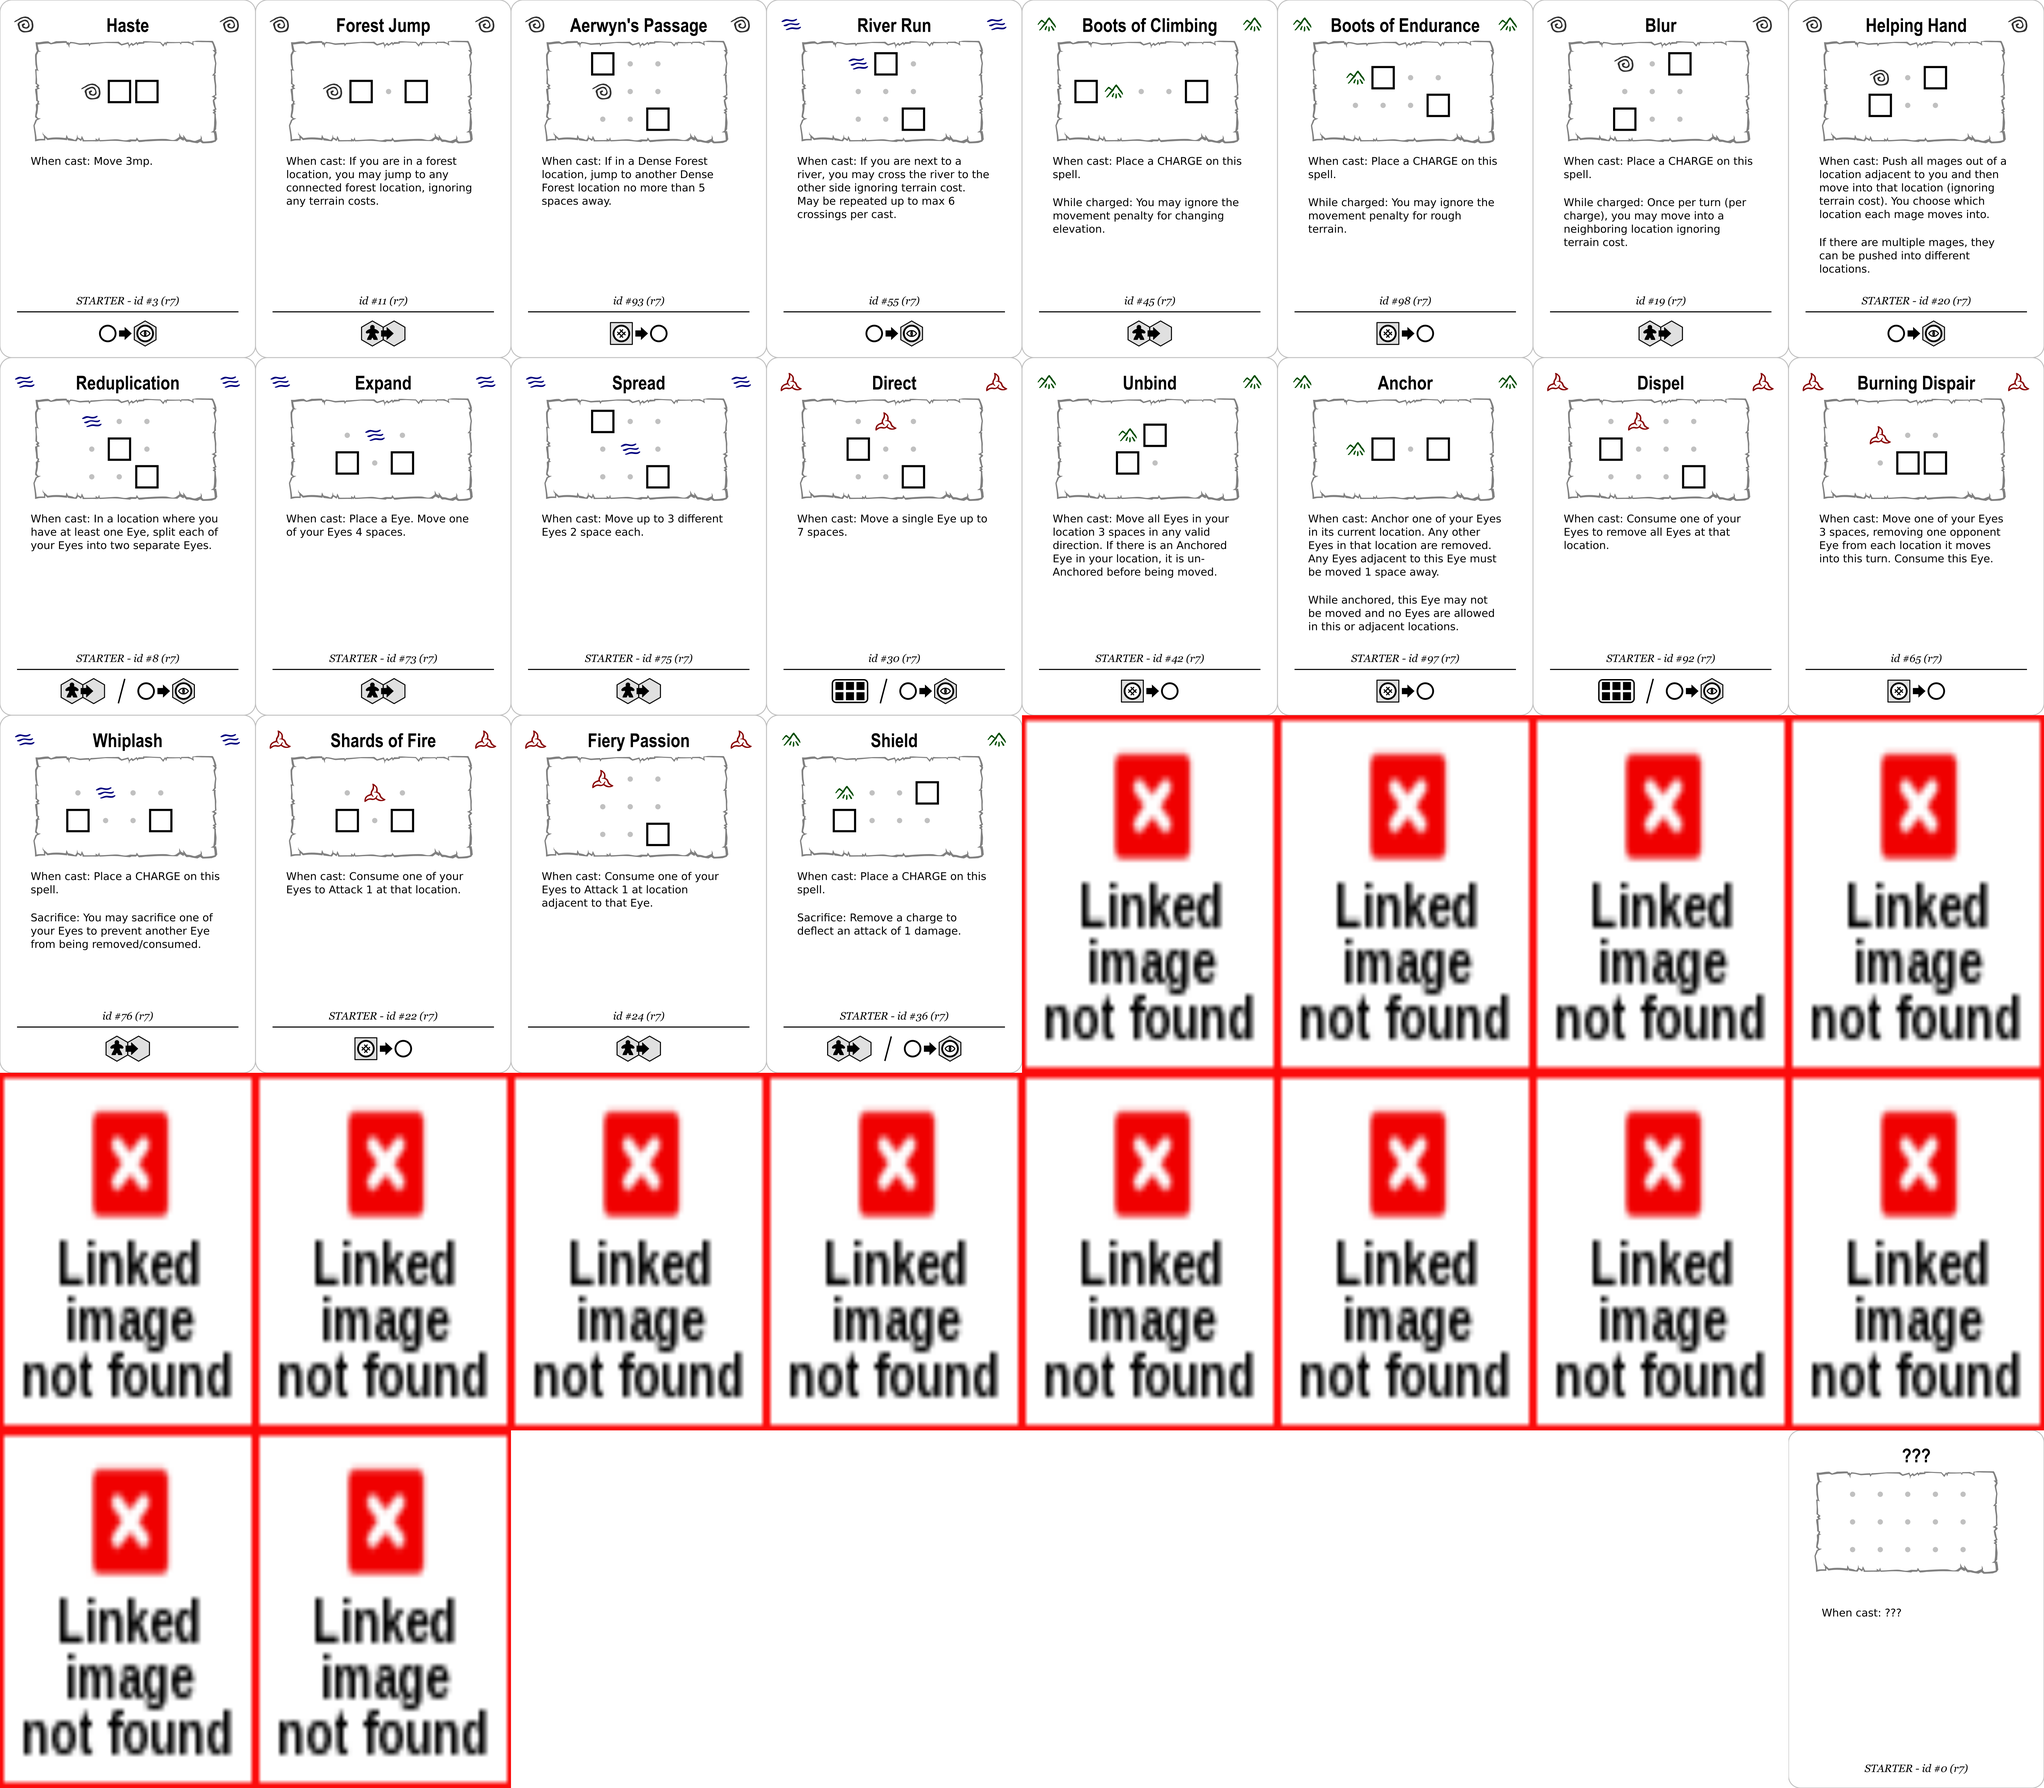
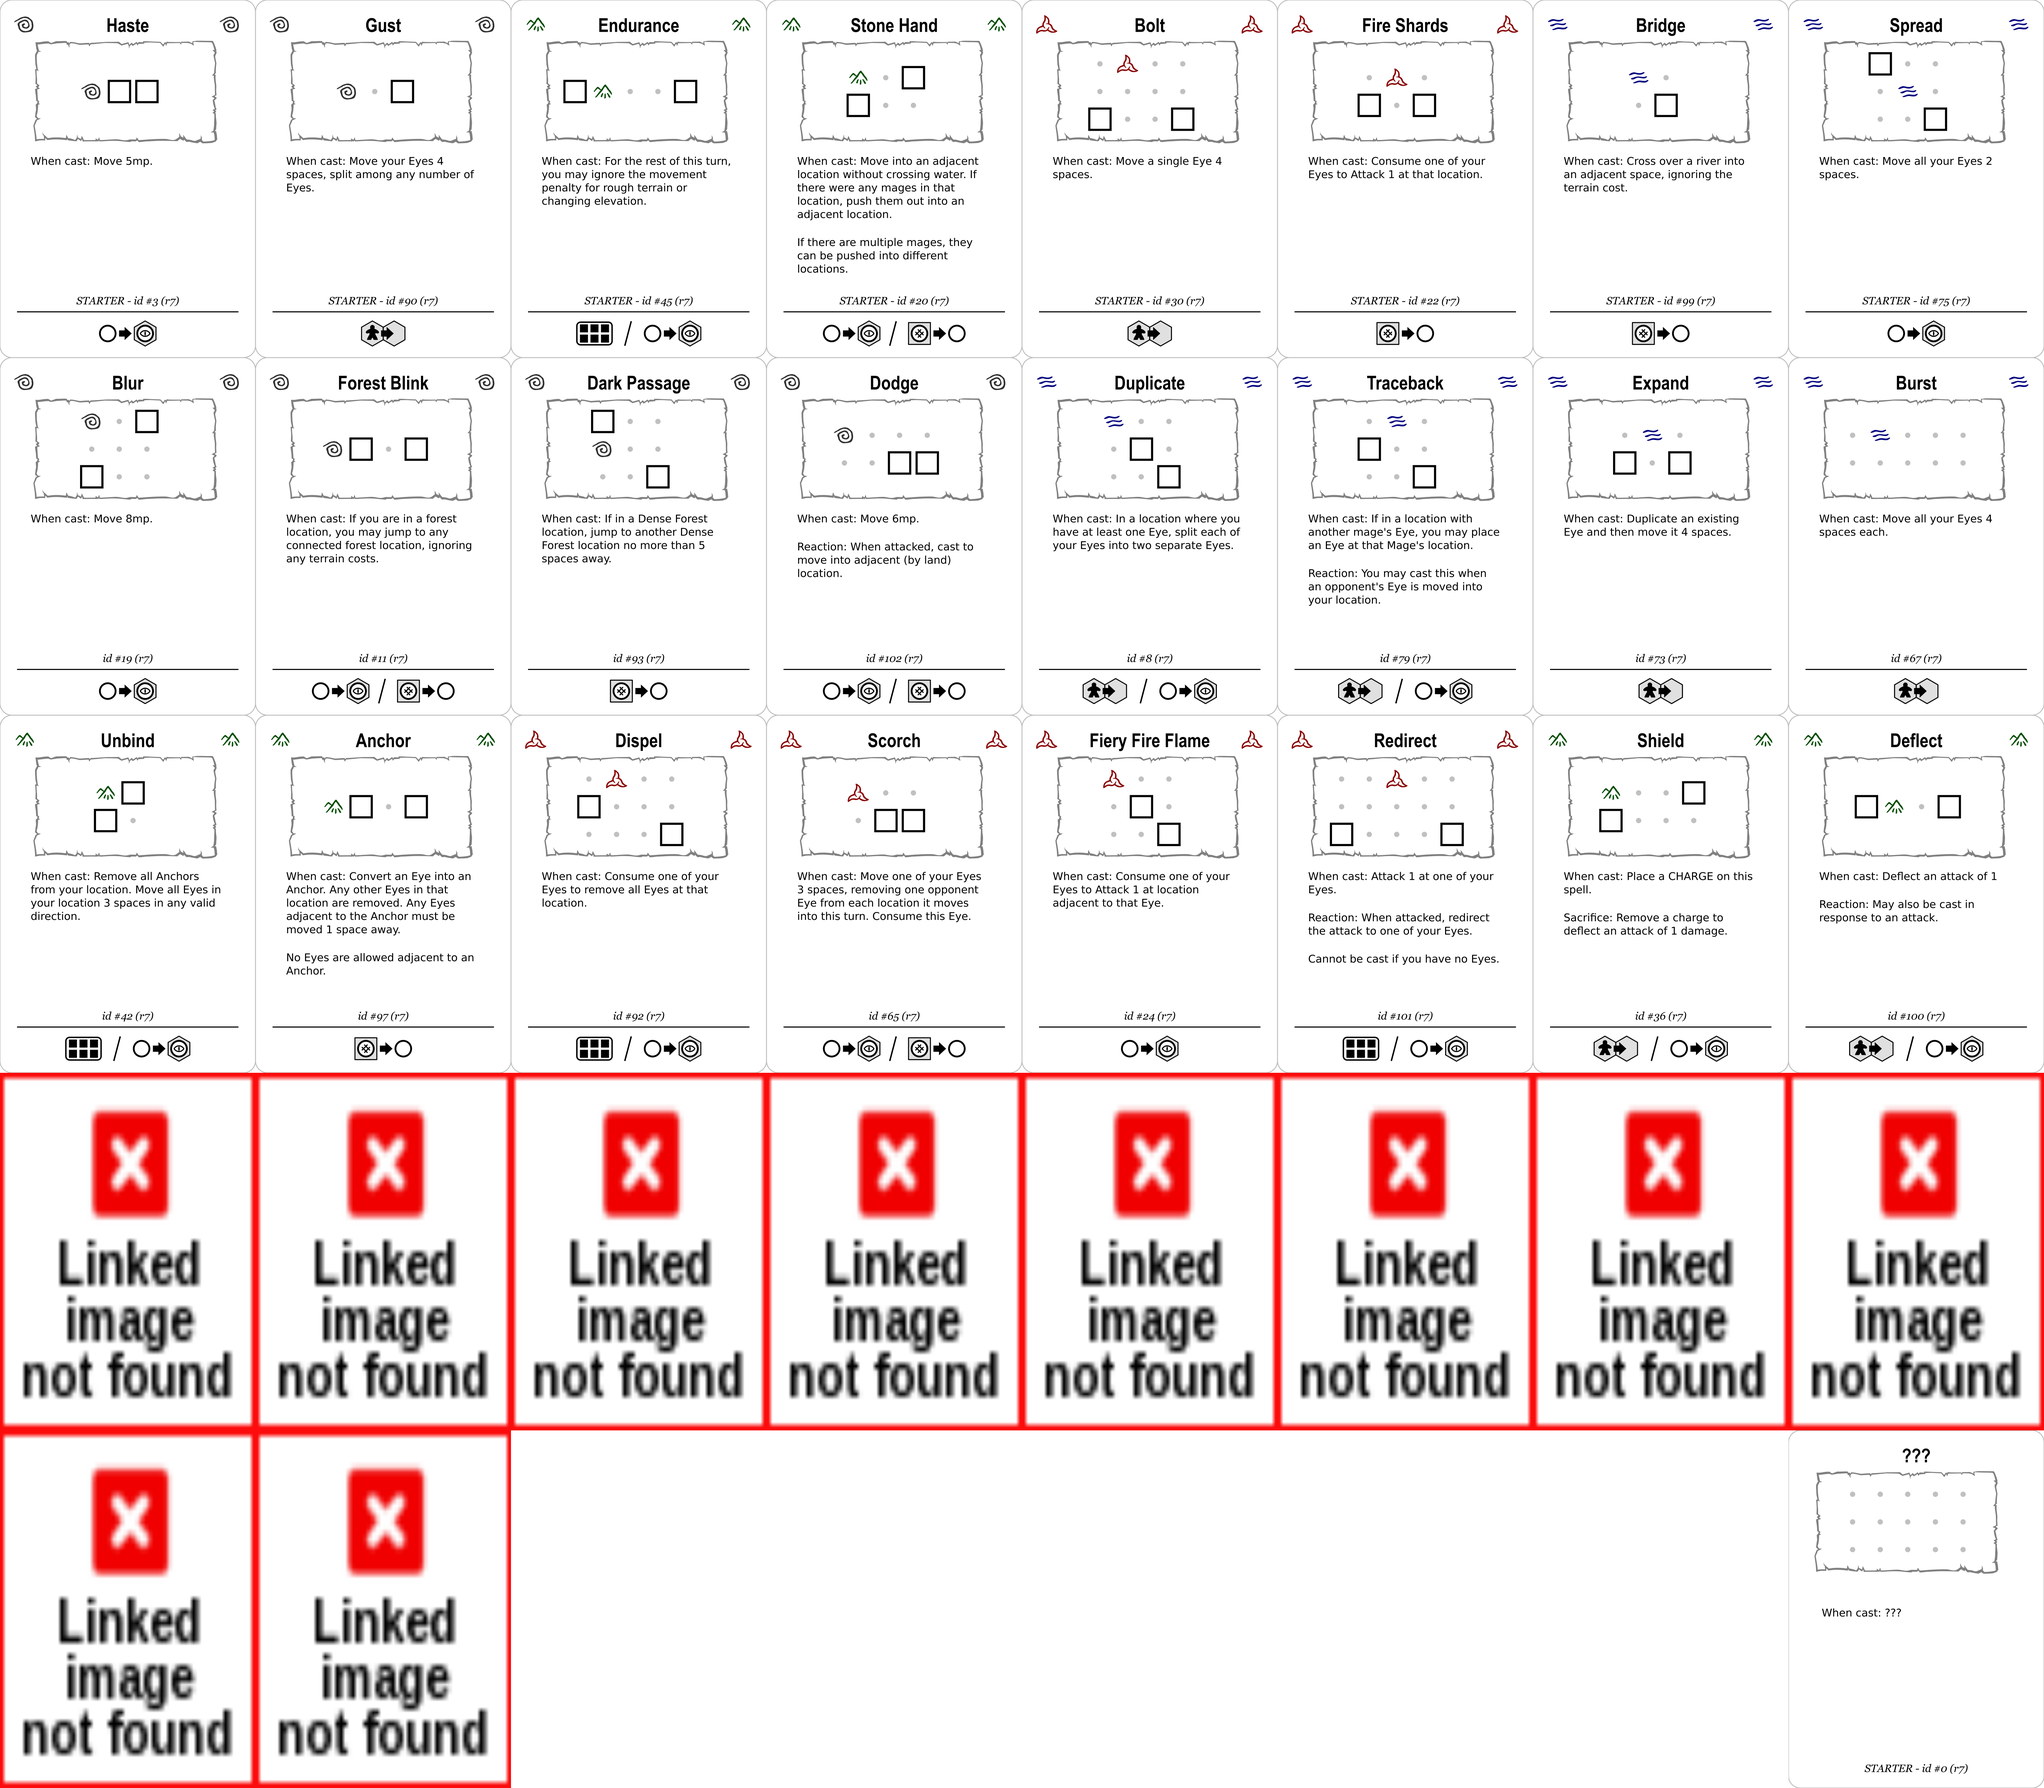
Update spell card generation
Add check for too-tall spell patterns
Add more info about starter cards to summary
Add new op: create eye / recover thread
Add 'react' tag to spells

diff --git a/components/create_spell_cards.py b/components/create_spell_cards.py
@@ -45,6 +45,7 @@ class SpellCardGen(CardGen):
         self.pattern2id = {}
         self.max_id = 0
         self.blank_count = 0
+        self.starters = []
                 
         self.valid_elements = ['none', 'air', 'fire', 'earth', 'water']
         self.valid_categories = spell_card_categories
@@ -228,6 +229,8 @@ class SpellCardGen(CardGen):
         gheight = len(pattern)
         if gheight == 0:
             error('Missing pattern for %s' % id)
+        if gheight > 3:
+            error('Tall pattern for %s' % id)
         gwidth = len(pattern[0])
 
         offset = 26
@@ -241,7 +244,7 @@ class SpellCardGen(CardGen):
             max_width = 6
         else:
             max_width = 7
-        if gheight %2 == 0:
+        if gheight % 2 == 0:
             py0 += offset / 2
             clone_y0 += offset / 2
             max_height = 2
@@ -344,6 +347,8 @@ class SpellCardGen(CardGen):
             if not cat in self.categories:
                 self.categories[cat] = []
             self.categories[cat].append(id)
+            if cat == 'starter':
+                self.starters.append(id)
 
         op = attrs['op']
         if not op in self.ops:
@@ -355,9 +360,10 @@ class SpellCardGen(CardGen):
         return '/'.join([''.join(x.split()) for x in pattern])
     
     def expand_desc(self, id, raw_desc):
-        keys = ['cast', 'charged', 'sacrifice', 'notes', 'comment']
+        keys = ['cast', 'react', 'charged', 'sacrifice', 'notes', 'comment']
         prefix = {
             'cast': 'When cast: ',
+            'react': 'Reaction: ',
             'charged': 'While charged: ',
             'sacrifice': 'Sacrifice: ',
             'notes': '',
@@ -445,7 +451,7 @@ class SpellCardGen(CardGen):
         self.write('<circle style="fill:#ffffff;fill-opacity:1;fill-rule:nonzero;stroke:#000000;stroke-width:6.37795258;stroke-linecap:round;stroke-linejoin:round;stroke-miterlimit:4;stroke-dasharray:none;stroke-dashoffset:0;stroke-opacity:1" id="circle1696" cx="1461.3002" cy="690.9162" r="27.657145" />')
         self.write('<g id="g1702" transform="translate(-24.615722,-99.147628)">')
         self.write('<path id="path1698" transform="matrix(0.9375,0,0,0.9375,-5.04417,-48.798175)" d="m 1590.3574,884.07227 a 20.714284,20.714284 0 0 0 -18.125,10.69531 20.714284,20.714284 0 0 0 18.125,10.73242 20.714284,20.714284 0 0 0 18.125,-10.69531 20.714284,20.714284 0 0 0 -18.125,-10.73242 z" style="fill:none;fill-opacity:1;stroke:#000000;stroke-width:4.25196838;stroke-linecap:round;stroke-linejoin:round;stroke-miterlimit:4;stroke-dasharray:none;stroke-dashoffset:0;stroke-opacity:1;paint-order:markers fill stroke" inkscape:connector-curvature="0" />')
-        self.write('<path id="path1700" transform="matrix(0.9375,0,0,0.9375,-5.04417,-48.798175)" d="m 1590.3496,884.57422 a 20.714284,20.714284 0 0 0 -2.707,10.21094 20.714284,20.714284 0 0 0 2.7207,10.21093 20.714284,20.714284 0 0 0 2.709,-10.21093 20.714284,20.714284 0 0 0 -2.7227,-10.21094 z" style="fill:none;fill-opacity:1;stroke:#000000;stroke-width:4.25196838;stroke-linecap:round;stroke-linejoin:round;stroke-miterlimit:4;stroke-dasharray:none;stroke-dashoffset:0;stroke-opacity:1;paint-order:markers fill stroke" inkscape:connector-curvature="0" />')
+        self.write('<path id="path1700" transform="matrix(0.9375,0,0,0.9375,-5.04417,-48.798175)" d="m 1590.3496,884.57422 a 20.714284,20.714284 0 0 0 -2.707,10.21094 20.714284,20.714284 0 0 0 2.7207,10.21093 20.714284,20.714284 0 0 0 2.709,-10.21093 20.714284,20.714284 0 0 0 -2.7227,-10.21094 z" style="fill:#000000;fill-opacity:1;stroke:none;stroke-width:4.25196838;stroke-linecap:round;stroke-linejoin:round;stroke-miterlimit:4;stroke-dasharray:none;stroke-dashoffset:0;stroke-opacity:1;paint-order:markers fill stroke" inkscape:connector-curvature="0" />')
         self.write('</g>')
         self.write('</g>')
         self.write('<circle style="fill:none;fill-opacity:1;fill-rule:nonzero;stroke:#000000;stroke-width:6.37795305;stroke-linecap:round;stroke-linejoin:round;stroke-miterlimit:4;stroke-dasharray:none;stroke-dashoffset:0;stroke-opacity:1" id="circle1706" cx="1603.125" cy="901.69257" r="27.657146" />')
@@ -482,8 +488,15 @@ class SpellCardGen(CardGen):
         self.write('</g>')
         self.write('<path sodipodi:nodetypes="cc" inkscape:connector-curvature="0" id="path1878" d="m 1818.5999,1045.9888 -22.6987,86.4075" style="color:#000000;clip-rule:nonzero;display:inline;overflow:visible;visibility:visible;opacity:1;isolation:auto;mix-blend-mode:normal;color-interpolation:sRGB;color-interpolation-filters:linearRGB;solid-color:#000000;solid-opacity:1;fill:none;fill-opacity:1;fill-rule:evenodd;stroke:#000000;stroke-width:5;stroke-linecap:butt;stroke-linejoin:miter;stroke-miterlimit:4;stroke-dasharray:none;stroke-dashoffset:0;stroke-opacity:1;color-rendering:auto;image-rendering:auto;shape-rendering:auto;text-rendering:auto;enable-background:accumulate" />')
         self.write('<use style="display:inline" x="0" y="0" xlink:href="#op-eye" id="use961" transform="matrix(3.7499998,0,0,3.7499998,1514.1934,-310.85496)" width="100%" height="100%" />')
-        self.write('</g>')  # op-tapestry-eye
+        self.write('</g>\n')  # op-tapestry-eye
         
+        # Op: Draw Tapestry Card OR Create Eye
+        self.write('<g id="op-eye-thread" transform="translate(0,20)">')
+        self.write('<use height="100%" width="100%" transform="translate(-40,-20)" id="use904" xlink:href="#op-eye" y="0" x="0" />')
+        self.write('<use height="100%" width="100%" transform="translate(40,-20)" id="use906" xlink:href="#op-thread" y="0" x="0" />')
+        self.write('<path style="color:#000000;clip-rule:nonzero;display:inline;overflow:visible;visibility:visible;opacity:1;isolation:auto;mix-blend-mode:normal;color-interpolation:sRGB;color-interpolation-filters:linearRGB;solid-color:#000000;solid-opacity:1;fill:none;fill-opacity:1;fill-rule:evenodd;stroke:#000000;stroke-width:1.33333337;stroke-linecap:butt;stroke-linejoin:miter;stroke-miterlimit:4;stroke-dasharray:none;stroke-dashoffset:0;stroke-opacity:1;color-rendering:auto;image-rendering:auto;shape-rendering:auto;text-rendering:auto;enable-background:accumulate" d="m 121.83788,341.82502 -6.05299,23.042" id="path1878-3" inkscape:connector-curvature="0" sodipodi:nodetypes="cc" />')
+        self.write('</g>\n')
+
         self.write('</g>\n')  # Op Masters
                    
     def spell_link(self, sid):
@@ -553,8 +566,8 @@ class SpellCardGen(CardGen):
         
         summary.write('## By Pattern\n\n')
         print('Patterns')
-        for pattern_key in sorted(self.pattern2id.keys()):
-            print(' ', pattern_key)
+        for pattern_key,sid in sorted(self.pattern2id.items()):
+            print(' ', pattern_key, '-', self.id2name[sid])
             (pattern, element) = pattern_key.split(':')
             sid = self.pattern2id[pattern_key]
             summary.write('* %s %s (%s)\n' % (pattern, self.spell_link(sid), element))
@@ -581,6 +594,11 @@ class SpellCardGen(CardGen):
                     continue
                 summary.write(d + '\n')
                 summary.write('\n')
+
+        print('Starters')
+        for s in self.starters:
+            attr = self.id2attrs[s]
+            print(' {0} - {1} - {2}'.format(self.id2name[s], attr['element'], attr['op']))
 
         summary.close()
         print('Total spell count = %d' % count)
